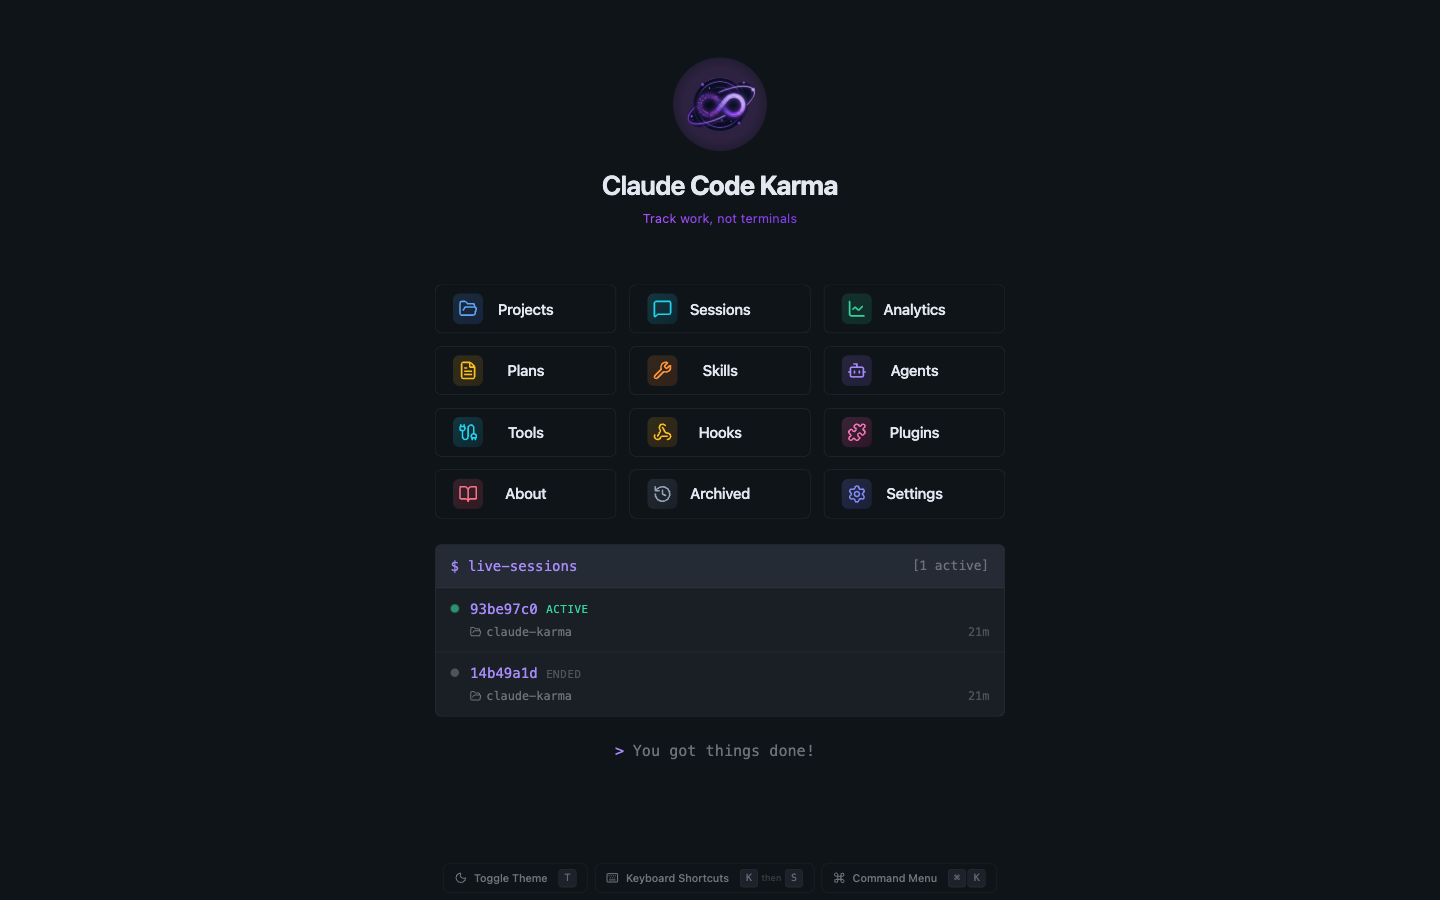
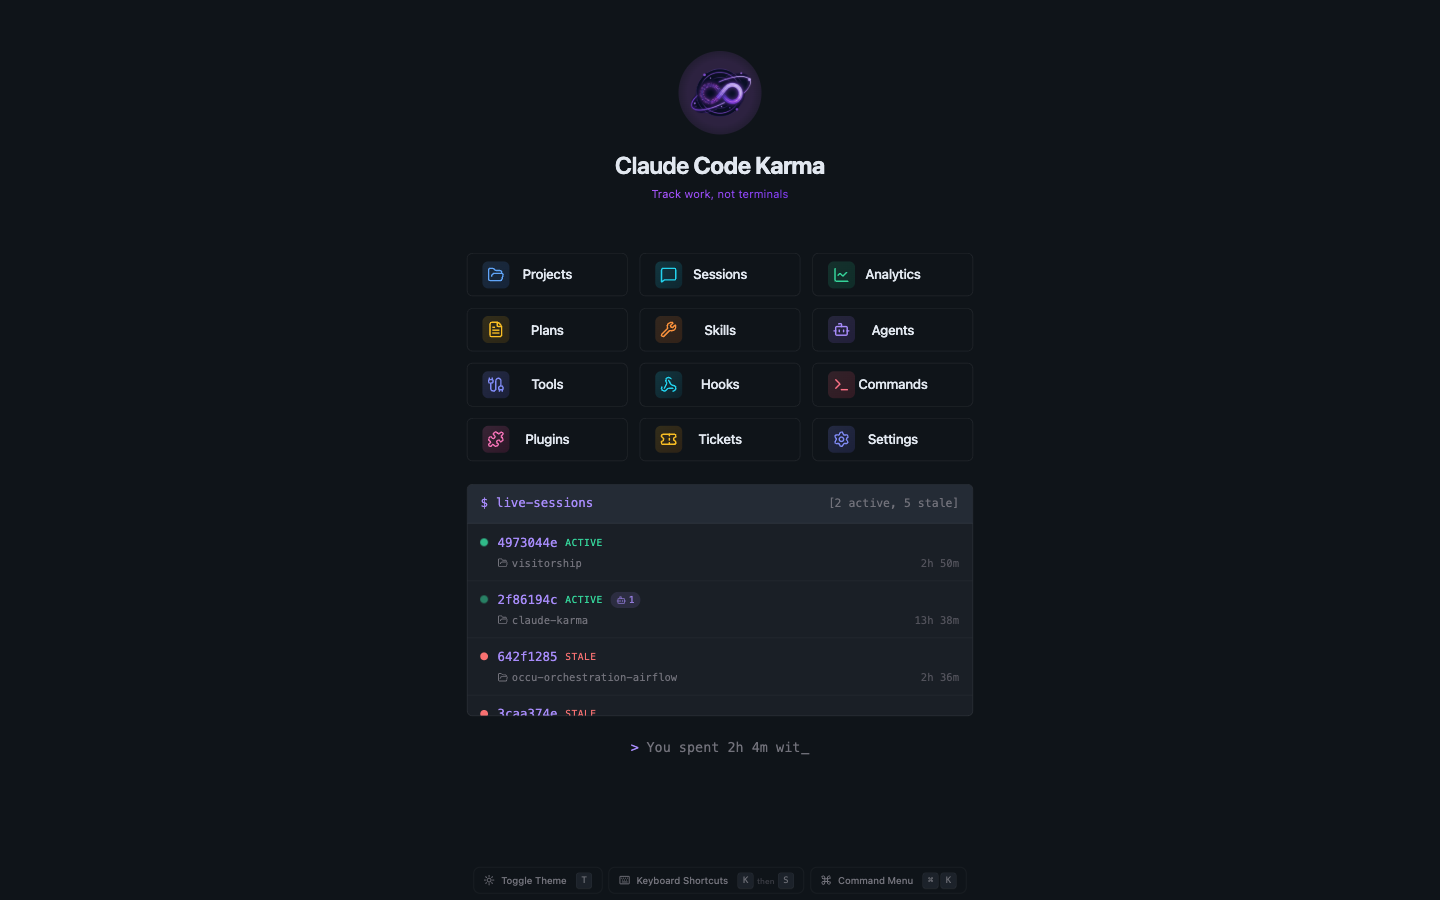
docs: Add v0.2.0 ticket linking screenshots and API endpoints (#74)
* docs(readme): screenshots and API table for v0.2.0 ticket linking

* docs(screenshots): recapture in dark mode to match existing README aesthetic

The first pass landed light-mode screenshots, but the rest of the README
(home hero, sessions, project list, analytics, etc.) is uniformly dark
mode. Re-capturing the 5 new/refreshed images in dark mode for visual
consistency.

Forced dark theme via Playwright `evaluate` before each shot:
  localStorage.setItem('theme', 'dark');
  document.documentElement.setAttribute('data-theme', 'dark');

Files replaced (paths and dimensions unchanged):
  - docs/screenshots/home.png
  - docs/screenshots/tickets-index.png
  - docs/screenshots/tickets-github-prs.png
  - docs/screenshots/ticket-detail.png
  - docs/screenshots/project-tickets-tab.png

---------

Pull request: docs: Add v0.2.0 ticket linking screenshots and API endpoints
## Changes

- Added 4 screenshots showcasing the Tickets feature:
  - `tickets-index.png` — All linked tickets with provider filtering
  - `tickets-github-prs.png` — GitHub sub-pill filtering for Issues/PRs
  - `ticket-detail.png` — Ticket detail with cross-project rollup
  - `project-tickets-tab.png` — Project-level tickets aggregation

- Updated `home.png` screenshot (nav redesign from commits 80ef02b, cf3a30d)

- Added **Tickets** API endpoints table covering:
  - Session-ticket linking (POST/GET/DELETE)
  - Tickets index and detail (GET)
  - MCP metadata refresh (PUT)
  - Admin repair endpoint (POST)

- Updated `.gitignore` to allow `docs/screenshots/*.png` (matches design-briefs pattern)

- Added "Tickets across providers" bullet to "And More" section

Closes #73 "Session ↔ Ticket Linking v0.2.0"

diff --git a/README.md b/README.md
@@ -206,8 +206,33 @@ Then browse:
 - A ticket detail page listing every session linked to a given ticket
 - A **Tickets tab on every project page** that aggregates across all checkouts of the same git repo — so a ticket linked from `claude-karma/frontend/` also shows on the main `claude-karma` project
 
+**Tickets Index** — All linked tickets in a filterable table. Switch between All, Issues, and PRs on GitHub.
+
+<p align="center">
+  <img src="docs/screenshots/tickets-index.png" alt="Tickets Index" width="100%" />
+</p>
+
+**Filter by Provider** — GitHub shows sub-pill filtering ([All N] [Issues N] [PRs N]) to toggle between categories.
+
+<p align="center">
+  <img src="docs/screenshots/tickets-github-prs.png" alt="GitHub Issues and PRs Filter" width="100%" />
+</p>
+
+**Ticket Detail** — View a ticket with all linked sessions. Cross-project rollup shows "N sessions · M projects" with tabs per project.
+
+<p align="center">
+  <img src="docs/screenshots/ticket-detail.png" alt="Ticket Detail with Cross-Project Rollup" width="100%" />
+</p>
+
+**Project Tickets Tab** — Every project page has a Tickets tab that aggregates across all git identity checkouts, so the same ticket appears even if linked from different branch directories.
+
+<p align="center">
+  <img src="docs/screenshots/project-tickets-tab.png" alt="Project Tickets Tab" width="100%" />
+</p>
+
 ### And More
 
+- **Tickets across providers** — Link sessions to Linear, Jira, and GitHub Issues in a unified interface
 - **Plans Browser** — View implementation plans and their execution status
 - **Command Palette** — Quick navigation with `Ctrl+K` / `Cmd+K`
 - **Full-text Search** — Search across session titles, prompts, and slugs
@@ -324,6 +349,19 @@ Enable real-time session monitoring by installing Claude Code hooks. See [SETUP.
 | `GET /agents/{name}` | Agent details |
 | `GET /skills` | List all skills |
 | `GET /live-sessions` | Real-time session state |
+
+### Tickets
+
+| Method | Endpoint | Description |
+|--------|----------|-------------|
+| `POST` | `/sessions/{uuid}/tickets` | Link a ticket to a session |
+| `GET` | `/sessions/{uuid}/tickets` | List tickets linked to a session |
+| `DELETE` | `/sessions/{uuid}/tickets/{id}` | Unlink a ticket from a session |
+| `GET` | `/tickets` | List all tickets (filters: provider, project, q) |
+| `GET` | `/tickets/{provider}/{key}` | Get ticket details |
+| `GET` | `/tickets/{provider}/{key}/sessions` | Sessions linked to a ticket |
+| `PUT` | `/tickets/{provider}/{key}` | Refresh metadata from MCP |
+| `POST` | `/admin/repair-github-urls` | Repair stale `/issues/` URLs to `/pull/` |
 
 </details>
 